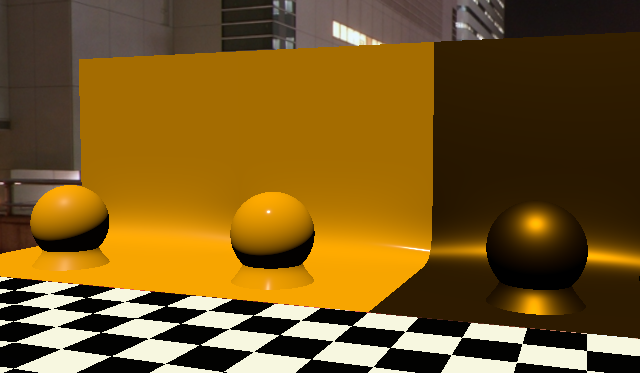
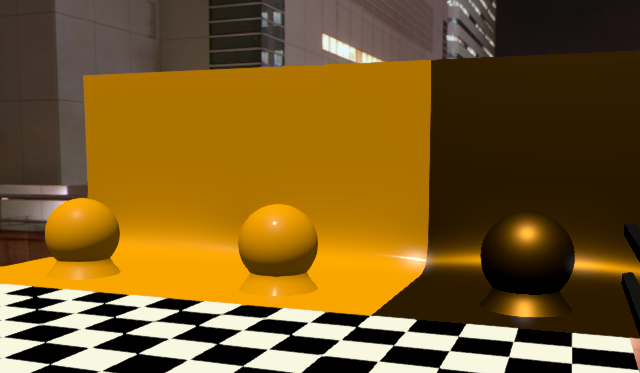
Updated screenshot.png.

Changed region(s): [[0.0, 0.0, 1.0, 1.0], [0.5625, 0.0, 0.5938, 0.0295], [0.0, 0.3244, 0.0312, 0.3539]]

diff --git a/src/graphics/gfxrenderer.cpp b/src/graphics/gfxrenderer.cpp
@@ -26,7 +26,7 @@ GfxRenderer::GfxRenderer(Scene *scene_) : debugDraw(false),
                                           vignetteIntensity(0.0f),
                                           bloomThreshold(1.0f),
                                           bloomRadius(0.025f),
-                                          bloomQuality(0.5f),
+                                          bloomQuality(0.9f),
                                           bloomEnabled(true),
                                           stats({0, 0, 0, 0, 0, 0, 0, 0, 0,
                                                  0, 0, 0, 0, 0, 0, 0, 0, 0}),
